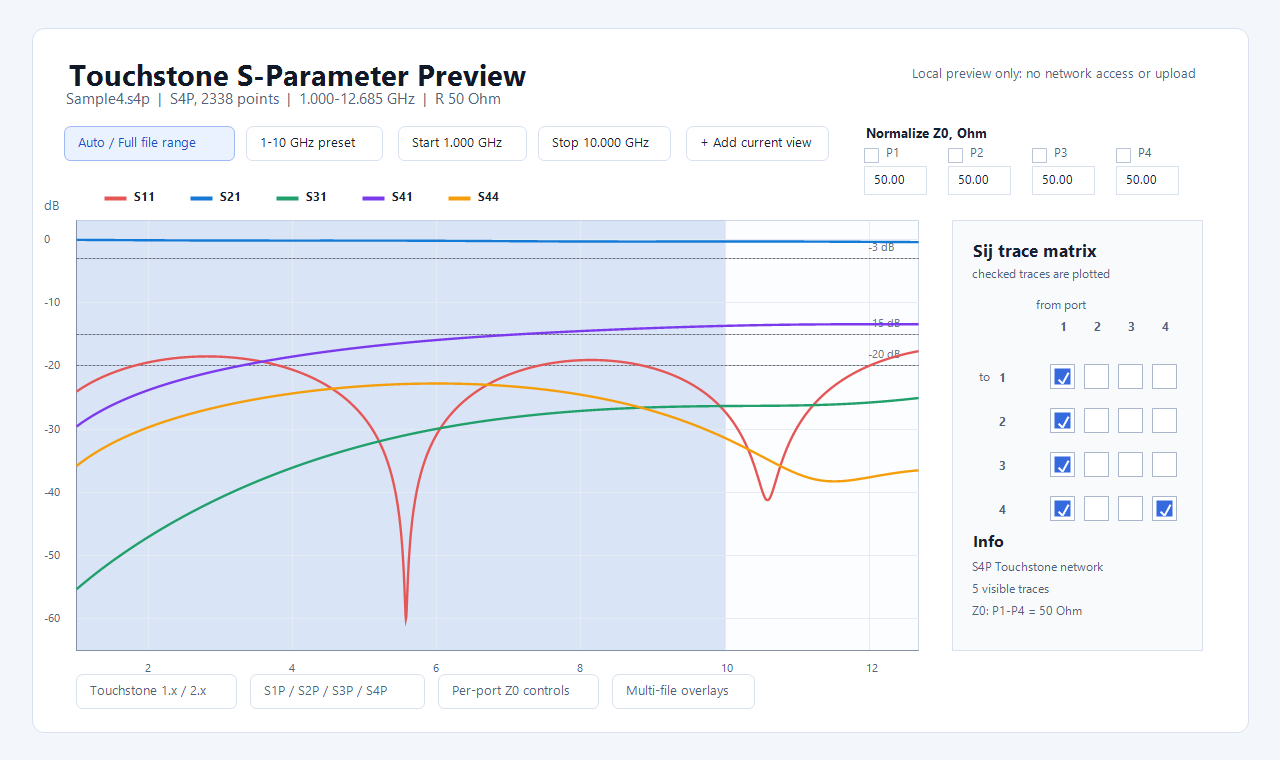
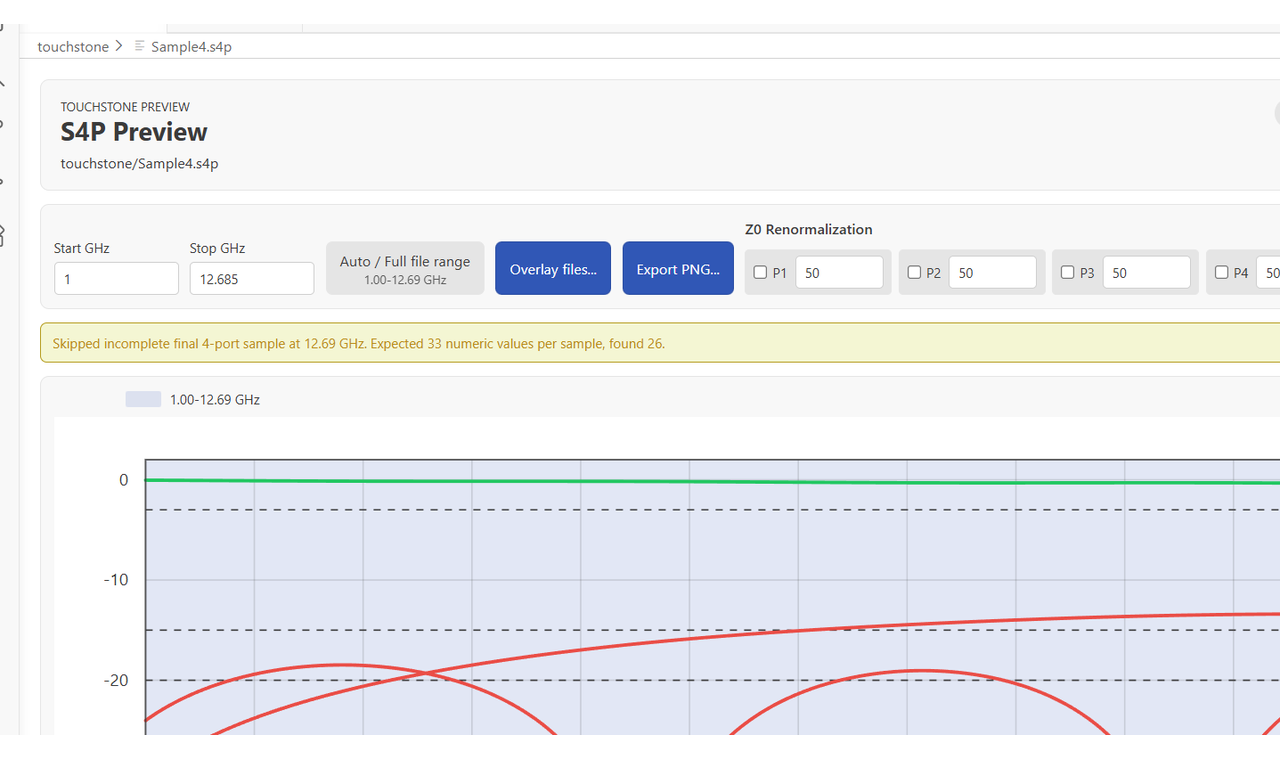
Polish marketplace release and chart layout

diff --git a/src/__tests__/webviewCss.test.ts b/src/__tests__/webviewCss.test.ts
@@ -1,0 +1,38 @@
+import test from "node:test";
+import assert from "node:assert/strict";
+import { readFileSync } from "node:fs";
+import { resolve } from "node:path";
+
+function cssValue(rule: string, property: string): string | undefined {
+  const match = rule.match(new RegExp(`${property}\\s*:\\s*([^;}]+)`));
+  return match ? match[1].trim() : undefined;
+}
+
+test("chart SVG has no fixed minimum width", () => {
+  const extensionSource = readFileSync(resolve(__dirname, "../../src/extension.ts"), "utf8");
+  const svgRule = extensionSource.match(/svg\s*\{[^}]*\}/);
+
+  assert.ok(svgRule, "Expected the webview stylesheet to include an svg rule.");
+  const minWidth = cssValue(svgRule[0], "min-width");
+  assert.ok(minWidth === undefined || minWidth === "0", `Expected no positive chart SVG min-width, got ${minWidth}.`);
+});
+
+test("chart container does not force page-level horizontal overflow", () => {
+  const extensionSource = readFileSync(resolve(__dirname, "../../src/extension.ts"), "utf8");
+  const chartWrapRule = extensionSource.match(/\.chart-wrap\s*\{[^}]*\}/);
+  const svgRule = extensionSource.match(/svg\s*\{[^}]*\}/);
+  const metricsRule = extensionSource.match(/\.metrics\s*\{[^}]*\}/);
+  const traceControlsRule = extensionSource.match(/\.trace-controls\s*\{[^}]*\}/);
+
+  assert.ok(chartWrapRule, "Expected the webview stylesheet to include a chart-wrap rule.");
+  assert.ok(svgRule, "Expected the webview stylesheet to include an svg rule.");
+  assert.ok(metricsRule, "Expected the webview stylesheet to include a metrics rule.");
+  assert.ok(traceControlsRule, "Expected the webview stylesheet to include a trace-controls rule.");
+
+  assert.match(chartWrapRule[0], /min-width\s*:\s*0\b/);
+  assert.match(chartWrapRule[0], /max-width\s*:\s*100%/);
+  assert.match(svgRule[0], /min-width\s*:\s*0\b/);
+  assert.match(svgRule[0], /max-width\s*:\s*100%/);
+  assert.match(metricsRule[0], /overflow-x\s*:\s*auto/);
+  assert.match(traceControlsRule[0], /overflow-x\s*:\s*auto/);
+});

diff --git a/src/extension.ts b/src/extension.ts
@@ -2121,11 +2121,13 @@ function htmlShell(webview: vscode.Webview, body: string, script = ""): string {
     .trace-controls,
     .metrics,
     .chart-wrap {
+      min-width: 0;
+      max-width: 100%;
       background: var(--surface);
       border: 1px solid var(--border);
       border-radius: 8px;
     }
-    .trace-controls { margin-top: 12px; padding: 12px; }
+    .trace-controls { margin-top: 12px; padding: 12px; overflow-x: auto; }
     .z0-card {
       display: grid;
       grid-template-columns: auto auto;
@@ -2252,7 +2254,7 @@ function htmlShell(webview: vscode.Webview, body: string, script = ""): string {
       color: var(--muted);
       font-size: 12px;
     }
-    svg { display: block; width: 100%; min-width: 760px; height: auto; }
+    svg { display: block; width: 100%; min-width: 0; max-width: 100%; height: auto; }
     .chart-bg { fill: var(--vscode-editor-background, #ffffff); }
     .passband { fill: var(--accent); opacity: 0.14; }
     .grid { stroke: var(--vscode-editorIndentGuide-background, var(--border)); stroke-width: 1; opacity: 0.75; }
@@ -2350,7 +2352,7 @@ function htmlShell(webview: vscode.Webview, body: string, script = ""): string {
     .overlay-file-5 { stroke-dasharray: 2 2; }
     .overlay-file-6 { stroke-dasharray: 12 4; }
     .overlay-file-7 { stroke-dasharray: 4 6; }
-    .metrics { margin-top: 12px; padding: 14px; }
+    .metrics { margin-top: 12px; padding: 14px; overflow-x: auto; }
     table { border-collapse: collapse; min-width: 540px; }
     th, td { border: 1px solid var(--vscode-panel-border); padding: 6px 8px; text-align: left; }
     th { color: var(--vscode-descriptionForeground); font-weight: 600; }

diff --git a/README.md b/README.md
@@ -4,7 +4,15 @@ VS Code extension for quick Touchstone `S`-parameter preview of `.s1p`, `.s2p`, 
 
 [Install from VS Code Marketplace](https://marketplace.visualstudio.com/items?itemName=applicate2628.vscode-s2p-preview) | [GitHub repository](https://github.com/applicate2628/vscode-s2p-preview)
 
+## Why Use It
+
+- Inspect Touchstone S-parameter charts without leaving VS Code.
+- Compare design variants with overlays, saved presets, and PNG export.
+- Keep RF simulation files local; no upload, telemetry, or external service is used.
+
 ![Touchstone S-parameter preview showing a four-port Sample4.s4p file](media/s4p-preview.png)
+
+![Touchstone S-parameter preview demo in VS Code showing passband presets, Sij trace selection, overlays, Z0 renormalization, and PNG export](media/s2p-preview-demo.gif)
 
 ## Scope
 
@@ -52,7 +60,7 @@ Both scripts bump the package patch version once for the batch, update the local
 ## Install Local VSIX
 
 ```powershell
-code --install-extension .\vscode-s2p-preview-0.0.14.vsix
+code --install-extension .\vscode-s2p-preview-0.0.15.vsix
 ```
 
 ## Use

diff --git a/README.marketplace.md b/README.marketplace.md
@@ -4,7 +4,15 @@ Preview `.s1p`, `.s2p`, `.s3p`, and `.s4p` Touchstone `S`-parameter files for RF
 
 [GitHub repository](https://github.com/applicate2628/vscode-s2p-preview) | [VS Code Marketplace](https://marketplace.visualstudio.com/items?itemName=applicate2628.vscode-s2p-preview)
 
+## Why Use It
+
+- Inspect Touchstone S-parameter charts without leaving VS Code.
+- Compare design variants with overlays, saved presets, and PNG export.
+- Keep RF simulation files local; no upload, telemetry, or external service is used.
+
 ![Touchstone S-parameter preview showing a four-port Sample4.s4p file](media/s4p-preview.png)
+
+![Touchstone S-parameter preview demo in VS Code showing passband presets, Sij trace selection, overlays, Z0 renormalization, and PNG export](media/s2p-preview-demo.gif)
 
 ## Features
 